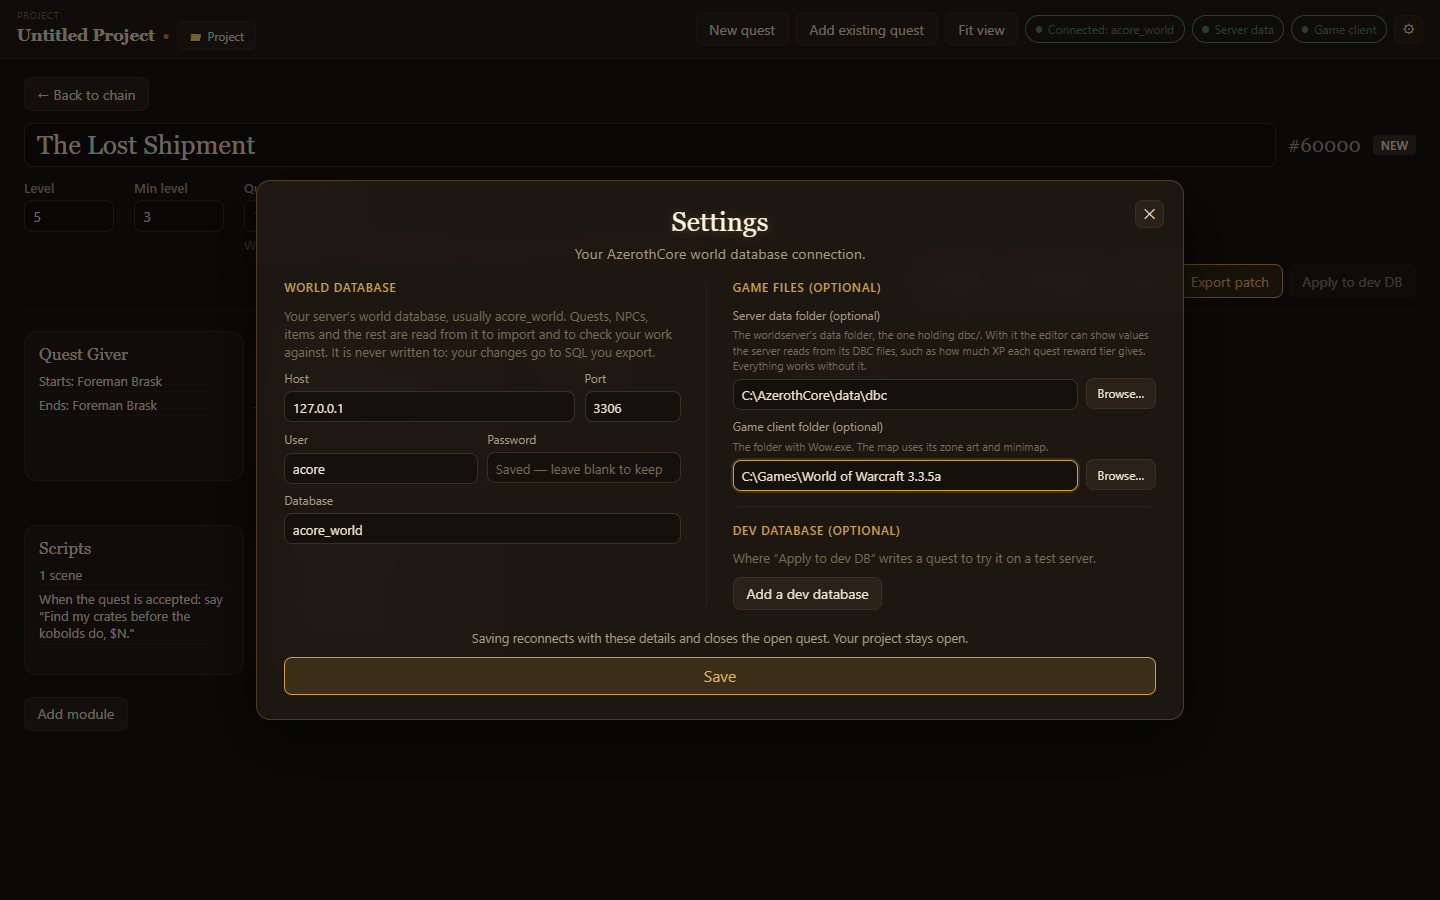
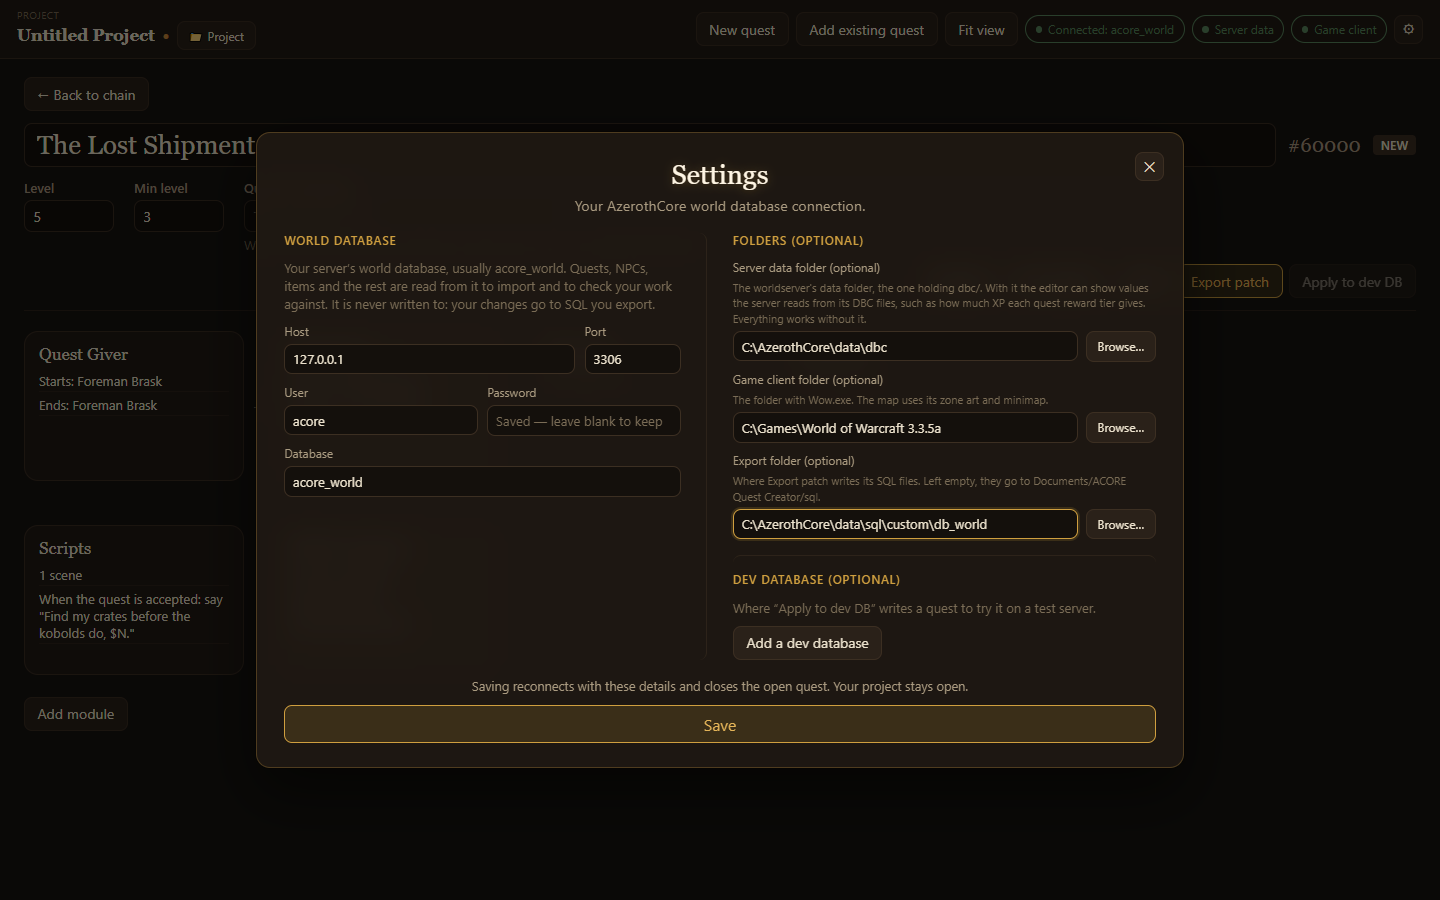
docs: Export folder setting, test folders from .env, a dock worker's look for the example NPC; fresh screenshots

Changed region(s): [[0.1875, 0.1556, 0.8125, 0.84], [0.7812, 0.1556, 0.8125, 0.2178], [0.7188, 0.6533, 0.75, 0.6844]]

diff --git a/tests/docs/screenshots.docs.ts b/tests/docs/screenshots.docs.ts
@@ -51,6 +51,7 @@ async function withGenericFields(scope: Page | Locator, take: () => Promise<void
     ['User', 'acore', world.user],
     ['Server data folder (optional)', 'C:\\AzerothCore\\data\\dbc', world.dbcDir!],
     ['Game client folder (optional)', 'C:\\Games\\World of Warcraft 3.3.5a', world.clientDir!],
+    ['Export folder (optional)', 'C:\\AzerothCore\\data\\sql\\custom\\db_world', world.exportDir ?? ''],
   ];
   for (const [label, generic] of fields) await scope.getByLabel(label, { exact: true }).fill(generic);
   await take();
@@ -129,8 +130,8 @@ test.describe.serial('docs screenshots', () => {
     await npc.getByLabel('Max level').fill('8');
     await npc.getByRole('button', { name: 'Stormwind' }).click();
     await npc.getByRole('tab', { name: 'Look & gear' }).click();
-    await npc.getByRole('combobox', { name: 'Look like…' }).fill('Stormwind City Guard');
-    await page.getByRole('option', { name: /Stormwind City Guard/ }).first().click();
+    await npc.getByRole('combobox', { name: 'Look like…' }).fill('Stormwind Dock Worker');
+    await page.getByRole('option', { name: /Stormwind Dock Worker/ }).first().click();
     await expect(npc.getByText(/^Looks like: .*\(display \d+\)$/)).toBeVisible();
     await shot(page, 'npc-editor');
     await npc.getByRole('button', { name: 'Done' }).click();
@@ -145,6 +146,8 @@ test.describe.serial('docs screenshots', () => {
     await giver.getByRole('option', { name: /Foreman Brask · new · #\d+$/ }).click();
     // Checks run after each edit; wait for the "nothing takes this quest back" warning to clear.
     await expect(giver.getByText(/^Nothing takes this quest back/)).toHaveCount(0);
+    // A new NPC is named in the pickers, never "not found in your database".
+    await expect(giver.getByText(/not found in your database/)).toHaveCount(0);
     await shot(page, 'quest-giver');
   });
 
@@ -217,6 +220,7 @@ test.describe.serial('docs screenshots', () => {
     const card = panel.getByRole('group', { name: /^Scene: / });
     await expect(card).toHaveCount(1);
     await card.getByLabel("Text ($N is the player's name)").fill('Find my crates before the kobolds do, $N.');
+    await expect(card.getByText(/not found in your database/)).toHaveCount(0);
     await shot(page, 'scripts');
     await page.keyboard.press('Escape');
     await expect(panel).toHaveCount(0);

diff --git a/tests/docs/world-env.test.ts b/tests/docs/world-env.test.ts
@@ -31,6 +31,11 @@ describe('worldDbFromEnv', () => {
     expect(env.dbcDir).toContain('\\');
   });
 
+  it('reads the export folder', () => {
+    const text = full + String.raw`ACQC_WORLD_DB_EXPORT_DIR=C:\AzerothCore\data\sql\custom` + '\n';
+    expect(worldDbFromEnv(text).exportDir).toBe(String.raw`C:\AzerothCore\data\sql\custom`);
+  });
+
   it('leaves empty optional folders out', () => {
     expect(worldDbFromEnv(full)).not.toHaveProperty('clientDir');
   });

diff --git a/tests/docs/world-env.ts b/tests/docs/world-env.ts
@@ -11,6 +11,7 @@ export interface WorldDbEnv {
   database: string;
   dbcDir?: string;
   clientDir?: string;
+  exportDir?: string;
 }
 
 function parseEnv(text: string): Map<string, string> {
@@ -42,5 +43,6 @@ export function worldDbFromEnv(text: string): WorldDbEnv {
   };
   if (get('DBC_DIR')) env.dbcDir = get('DBC_DIR');
   if (get('CLIENT_DIR')) env.clientDir = get('CLIENT_DIR');
+  if (get('EXPORT_DIR')) env.exportDir = get('EXPORT_DIR');
   return env;
 }

diff --git a/site/src/content/docs/guides/npcs-and-objects.md b/site/src/content/docs/guides/npcs-and-objects.md
@@ -14,12 +14,16 @@ New NPCs and objects are created in the quest as soon as you choose **Done**. **
 
 ## The NPC editor
 
-![The New NPC editor on its Look & gear tab, borrowing a Stormwind City Guard's look and weapons](../../../assets/screenshots/npc-editor.png)
+![The New NPC editor on its Look & gear tab, borrowing a Stormwind Dock Worker's look and wrench](../../../assets/screenshots/npc-editor.png)
 
 The editor has tabs:
 
 - **Basics**: name, title (the line under the name), minimum and maximum level, and faction. Faction buttons such as **Stormwind** set a common one in a click.
 - **Look & gear**: how the NPC looks. Type a creature under **Look like…** to borrow its appearance. Tick **and its weapons** to borrow its weapons too, or **and its level, faction and rank** to borrow those. **Other ways** lets you browse models by name or type a display ID. **Scale** makes it bigger or smaller. Under **Weapons** you can pick main hand, off hand and ranged items yourself; armour always comes with the look.
+
+:::note[Weapons only need a display]
+An NPC holds a weapon by its item's display alone, so any item works, even one your database lists without a proper name (it may show as `[MISSING ITEM NAME]`). The NPC still holds it in game.
+:::
 - **Fight**: how it fights. See the [combat wizard](/acore-quest-creator/guides/combat-wizard/).
 - **Loot**: what it drops. See [Loot](/acore-quest-creator/guides/loot/).
 - **Placement**: where it stands. **Add spawn**, then either paste the output of the in-game `.gps` command or place it on the [quest map](/acore-quest-creator/guides/quest-map/).
@@ -41,5 +45,5 @@ Usable objects and chests can be **Only usable while this quest is in the log**.
 On **Look**, **Other ways** lets you **Browse models** by name, such as `chest` or `book`.
 
 :::tip
-Without the [server data folder](/acore-quest-creator/getting-started/connect/#game-files-optional), models and spells cannot be searched by name. Type their IDs instead.
+Without the [server data folder](/acore-quest-creator/getting-started/connect/#folders-optional), models and spells cannot be searched by name. Type their IDs instead.
 :::

diff --git a/site/src/content/docs/contributing/testing.md b/site/src/content/docs/contributing/testing.md
@@ -8,9 +8,11 @@ sidebar:
 | Command | What it runs | Needs |
 | --- | --- | --- |
 | `npm run typecheck` | TypeScript over main and renderer | nothing |
-| `npm test` | Unit tests (Vitest): `tests/core`, `tests/main`, `tests/renderer` and more | nothing |
-| `npm run test:int` | Integration tests (`*.int.test.ts`) against a real world database | `ACQC_TEST_MYSQL_URL`, `ACQC_AC_SQL_DIR` |
-| `npm run test:e2e` | End-to-end tests (Playwright) that build and drive the app | `ACQC_TEST_MYSQL_URL` |
+| `npm test` | Unit tests (Vitest): `tests/core`, `tests/main`, `tests/renderer` and more | the fork's base SQL |
+| `npm run test:int` | Integration tests (`*.int.test.ts`) against a real world database | `ACQC_TEST_MYSQL_URL`, the fork's base SQL |
+| `npm run test:e2e` | End-to-end tests (Playwright) that build and drive the app | `ACQC_TEST_MYSQL_URL`, the server data and game client folders |
+
+The unit tests read table layouts from the Conquest of AzerothCore fork's base SQL (`data/sql/base/db_world`). They find it beside the server data folder you set in `.env` (`ACQC_WORLD_DB_DBC_DIR`), or at `ACQC_AC_SQL_DIR`. Tests read `.env` themselves, the way the app does; a variable already set in your shell wins.
 
 Run `npm run typecheck` and `npm test` before every pull request.
 
@@ -24,8 +26,8 @@ ACQC_TEST_MYSQL_URL=mysql://user:password@127.0.0.1:3306/acore_world
 
 They do not skip when it is missing; they fail, so a green run always means they ran.
 
-- Integration tests that read AzerothCore's base SQL also need `ACQC_AC_SQL_DIR`, the `data/sql` folder of your AzerothCore checkout.
-- End-to-end tests that use the map read `ACQC_WORLD_DB_DBC_DIR` (the server's `dbc/` folder) and `ACQC_TEST_CLIENT_DIR` (the game client folder).
+- End-to-end tests that use the map read the server data and game client folders from `ACQC_WORLD_DB_DBC_DIR` and `ACQC_WORLD_DB_CLIENT_DIR`.
+- A test that needs a folder you have not set fails and names the variable to set.
 - End-to-end tests launch the app with a fresh `ACQC_USER_DATA` folder, so they never touch your own connection details or projects.
 
 :::caution

diff --git a/site/src/content/docs/reference/environment-variables.md b/site/src/content/docs/reference/environment-variables.md
@@ -20,6 +20,7 @@ Copy `.env.example` to `.env` in the repository. When you run the app from sourc
 | `ACQC_WORLD_DB_DATABASE` | World database name. |
 | `ACQC_WORLD_DB_DBC_DIR` | Optional. The server's data folder holding `dbc/`. |
 | `ACQC_WORLD_DB_CLIENT_DIR` | Optional. The game client folder. |
+| `ACQC_WORLD_DB_EXPORT_DIR` | Optional. Where **Export patch** writes SQL files (Settings → Export folder). |
 | `ACQC_DEV_DB_HOST` | Optional. Dev database host; leave empty to skip the dev database. |
 | `ACQC_DEV_DB_PORT` | Dev database port (default `3306`). |
 | `ACQC_DEV_DB_USER` | Dev database user. |
@@ -34,7 +35,7 @@ Variables already set in your shell win over the file.
 | --- | --- |
 | `ACQC_ENV_FILE` | Read another file instead of `.env`, or `none` to read no file. |
 | `ACQC_USER_DATA` | Use this folder for the app's data instead of the usual one. Tests set it to a fresh folder so they never touch your own. |
-| `ACQC_OUTPUT_DIR` | Where **Export patch** writes SQL files. |
+| `ACQC_OUTPUT_DIR` | Where **Export patch** writes SQL files, whatever the connection's export folder says. Tests use it to write to a scratch folder. |
 | `ACQC_RECOVERY_INTERVAL_MS` | How often the recovery copy is saved, in milliseconds (default `30000`). |
 
 ## Test variables
@@ -42,7 +43,6 @@ Variables already set in your shell win over the file.
 | Variable | Meaning |
 | --- | --- |
 | `ACQC_TEST_MYSQL_URL` | The world database for integration and end-to-end tests, as `mysql://user:password@host:port/database`. |
-| `ACQC_AC_SQL_DIR` | The AzerothCore `data/sql` folder, for integration tests that read the base SQL. |
-| `ACQC_TEST_CLIENT_DIR` | The game client folder, for end-to-end tests of the quest map. |
+| `ACQC_AC_SQL_DIR` | The fork's `data/sql` folder, for tests that read its base SQL. Without it, tests use the `sql` folder beside `ACQC_WORLD_DB_DBC_DIR`'s parent. |
 
 See [Testing](/acore-quest-creator/contributing/testing/).

diff --git a/site/src/content/docs/getting-started/connect.md b/site/src/content/docs/getting-started/connect.md
@@ -7,7 +7,7 @@ sidebar:
 
 The first screen asks where your world database is. Fill it in once; the app remembers it and offers it again next time.
 
-![The login screen, with the world database on the left and the optional game files and dev database on the right](../../../assets/screenshots/login.png)
+![The login screen, with the world database on the left and the optional folders and dev database on the right](../../../assets/screenshots/login.png)
 
 ## World database
 
@@ -19,10 +19,11 @@ Your server's world database, usually `acore_world`. Quests, NPCs, items and the
 
 The password is stored encrypted on your computer. Once one is saved, the field reads **Saved — leave blank to keep**.
 
-## Game files (optional)
+## Folders (optional)
 
 - **Server data folder**: the worldserver's data folder, the one holding `dbc/`. It lets the app show XP values for reward tiers, search spells and creature or object models by name, and snap spawns to the ground on the map. Everything works without it; those parts fall back to typing IDs.
 - **Game client folder**: the folder with `Wow.exe`. The quest map uses its zone art and minimap.
+- **Export folder**: where **Export patch** writes SQL files, such as your server's `data/sql/custom/db_world`. Left empty, they go to `Documents/ACORE Quest Creator/sql`.
 
 Use **Browse…** to pick a folder instead of typing it.
 

diff --git a/CONTRIBUTING.md b/CONTRIBUTING.md
@@ -44,11 +44,11 @@ More: [Architecture](https://dmck96.github.io/acore-quest-creator/contributing/a
 | Command | Runs | Needs |
 | --- | --- | --- |
 | `npm run typecheck` | TypeScript | nothing |
-| `npm test` | Unit tests (Vitest) | nothing |
-| `npm run test:int` | Integration tests | `ACQC_TEST_MYSQL_URL`, `ACQC_AC_SQL_DIR` |
-| `npm run test:e2e` | End-to-end tests (Playwright) | `ACQC_TEST_MYSQL_URL` |
+| `npm test` | Unit tests (Vitest) | the fork's base SQL |
+| `npm run test:int` | Integration tests | `ACQC_TEST_MYSQL_URL`, the fork's base SQL |
+| `npm run test:e2e` | End-to-end tests (Playwright) | `ACQC_TEST_MYSQL_URL`, the server data and game client folders |
 
-`ACQC_TEST_MYSQL_URL` is `mysql://user:password@host:port/database`. Set it directly; do not `source` your `.env`, which mangles Windows paths.
+Tests read `.env` like the app does. They find the fork's base SQL (`data/sql/base/db_world`) beside your `ACQC_WORLD_DB_DBC_DIR`, or at `ACQC_AC_SQL_DIR`, and the folders from `ACQC_WORLD_DB_DBC_DIR` and `ACQC_WORLD_DB_CLIENT_DIR`. `ACQC_TEST_MYSQL_URL` is `mysql://user:password@host:port/database`. Set it directly; do not `source` your `.env`, which mangles Windows paths.
 
 More: [Testing](https://dmck96.github.io/acore-quest-creator/contributing/testing/)
 

diff --git a/site/src/content/docs/reference/settings.md b/site/src/content/docs/reference/settings.md
@@ -21,14 +21,15 @@ Choose **⚙** in the top bar to open **Settings**. It holds the same fields as 
 
 The world database is only ever read.
 
-## Game files
+## Folders
 
 | Setting | Meaning |
 | --- | --- |
 | Server data folder | The worldserver's data folder, the one holding `dbc/`. Adds XP values, name search for spells and models, ground height and floors on the map. |
 | Game client folder | The folder with `Wow.exe`. Adds zone art and the minimap to the quest map. |
+| Export folder | Where **Export patch** writes SQL files. Empty: `Documents/ACORE Quest Creator/sql`. |
 
-Both are optional.
+All three are optional.
 
 ## Dev database
 
@@ -48,4 +49,4 @@ Connection details, recent projects, recovery copies and cached map tiles live i
 | macOS | `~/Library/Application Support/acore-quest-creator` |
 | Linux | `~/.config/acore-quest-creator` |
 
-Exported SQL patches go to `Documents/ACORE Quest Creator/sql`. Projects are saved wherever you choose, as `.aqc` files.
+Exported SQL patches go to the **Export folder**, or `Documents/ACORE Quest Creator/sql` when none is set. Projects are saved wherever you choose, as `.aqc` files.

diff --git a/site/src/content/docs/guides/combat-wizard.md b/site/src/content/docs/guides/combat-wizard.md
@@ -32,7 +32,7 @@ Then change anything the preset filled in.
 - **Reactions**: what happens *when it enters combat*, *at a health %*, *when a friend is hurt*, *when one of its adds dies*, *when it kills a player*, *when it dies* or *when it gives up and resets*. A reaction can **Say or yell**, **Emote**, **Cast a spell**, **Summon adds**, **Despawn its adds**, **Go to phase**, **Flee for help**, **Call for help**, **Stop taking damage at** a health %, **Surrender** or **Give quest credit**.
 
 :::tip
-With the [server data folder](/acore-quest-creator/getting-started/connect/#game-files-optional) connected, type a spell's name to find it. Without it, type the spell ID.
+With the [server data folder](/acore-quest-creator/getting-started/connect/#folders-optional) connected, type a spell's name to find it. Without it, type the spell ID.
 :::
 
 A fight pauses a patrolling NPC's route; it carries on walking after combat.

diff --git a/site/src/content/docs/guides/export-and-apply.md b/site/src/content/docs/guides/export-and-apply.md
@@ -15,7 +15,7 @@ Your work leaves the app as SQL. The quest's header has three buttons for it: **
 
 ## Export a patch
 
-**Export patch** writes the quest's changes to an `.sql` file and shows where it saved it. By default files go to `Documents/ACORE Quest Creator/sql`. Run the file against your world database, or hand it to your server admin.
+**Export patch** writes the quest's changes to an `.sql` file and shows where it saved it. Files go to the **Export folder** set in [Settings](/acore-quest-creator/reference/settings/#folders), or to `Documents/ACORE Quest Creator/sql` when none is set. Run the file against your world database, or hand it to your server admin.
 
 The app refuses to export a quest it cannot write back faithfully. The button is then disabled and says why: *Unsafe to export*. It also refuses while a module has an error, listing what to fix.
 

diff --git a/site/src/content/docs/guides/quest-details-and-objectives.md b/site/src/content/docs/guides/quest-details-and-objectives.md
@@ -56,4 +56,4 @@ A module with a problem shows a coloured dot, and a badge above the modules name
 
 ## Dialogue and rewards
 
-**Dialogue** holds the text the giver says when offering the quest, while it is in progress and when it is handed in. **Rewards** holds the experience, money, items and reputation. With the [server data folder](/acore-quest-creator/getting-started/connect/#game-files-optional) connected, the app shows how much XP each reward tier gives.
+**Dialogue** holds the text the giver says when offering the quest, while it is in progress and when it is handed in. **Rewards** holds the experience, money, items and reputation. With the [server data folder](/acore-quest-creator/getting-started/connect/#folders-optional) connected, the app shows how much XP each reward tier gives.
